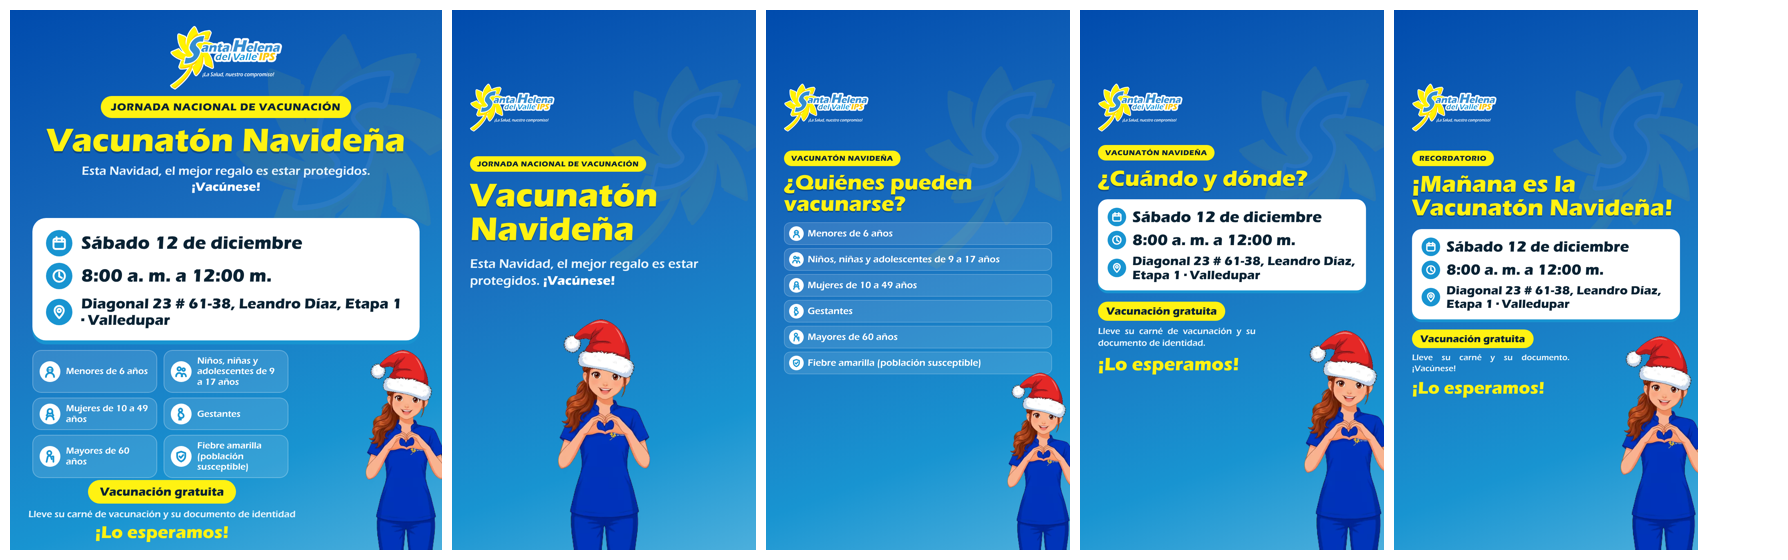
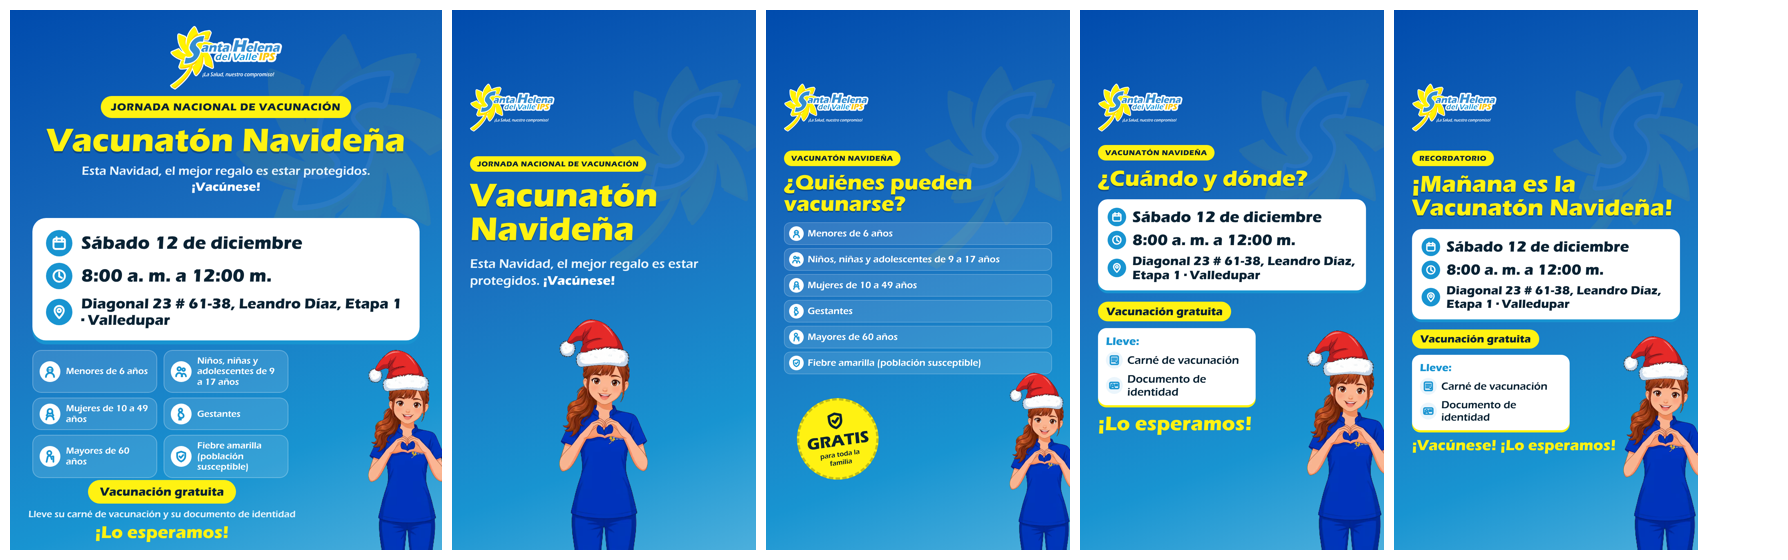
Vacunatón: gorro más arriba, sello GRATIS y tarjeta Lleve en las historias
Claude-Session: https://claude.ai/code/session_01KgBCaN2Nb7mn6jAyyriR7q

diff --git a/entregas/creativo-instagram/2026-11-26-vacunaton-navidena/fuente/piezas.html b/entregas/creativo-instagram/2026-11-26-vacunaton-navidena/fuente/piezas.html
@@ -34,6 +34,16 @@ h1{font-family:"Lobster";font-weight:400;color:var(--tit);line-height:1;text-sha
 .esperamos{font-family:"Lobster";color:var(--tit)}
 .B .esperamos{font-family:"Eras Bold ITC"}
 .hel{position:absolute}
+.llevar{background:#fff;color:#0A2233;border-radius:30px;padding:24px 28px;display:flex;flex-direction:column;gap:14px;box-shadow:0 8px 0 var(--ac2)}
+.B .llevar{box-shadow:0 8px 0 #FFF212}
+.llevar .lt{font-family:"Eras Bold ITC";color:var(--ac1)}
+.B .llevar .lt{color:#1894D1}
+.llevar .li{display:flex;align-items:center;gap:16px}
+.gi2{flex:none;width:60px;height:60px;border-radius:50%;background:#EAF5FC;display:flex;align-items:center;justify-content:center}
+.sello{position:absolute;width:330px;height:330px;border-radius:50%;background:var(--chip);color:var(--chipT);display:flex;flex-direction:column;align-items:center;justify-content:center;text-align:center;border:8px dashed rgba(255,255,255,.55);transform:rotate(-8deg)}
+.B .sello{border-color:rgba(10,34,51,.25)}
+.sello b{font-family:"Eras Bold ITC";font-weight:400;font-size:58px;line-height:1;margin-top:6px}
+.sello span{font-size:25px;width:220px;line-height:1.15;margin-top:6px}
 .marca{position:absolute;opacity:.07}
 </style></head><body>
 <section id="pz"></section>
@@ -62,6 +72,9 @@ const cuando=(fs)=>`<div class="cuando">
  <div class="fila"><span class="ic">${ico.cal}</span><span class="t" style="font-size:${fs}px">Sábado 12 de diciembre</span></div>
  <div class="fila"><span class="ic">${ico.reloj}</span><span class="t" style="font-size:${fs}px">8:00 a. m. a 12:00 m.</span></div>
  <div class="fila"><span class="ic">${ico.pin}</span><span class="t" style="font-size:${fs*0.8}px">Diagonal 23 # 61-38, Leandro Díaz, Etapa 1 · Valledupar</span></div></div>`;
+const llevar=(fs)=>`<div class="llevar" style="font-size:${fs}px"><p class="lt">Lleve:</p>
+ <div class="li"><span class="gi2"><svg width="40" height="40" viewBox="0 0 40 40" stroke="#1894D1" ${S}><rect x="6" y="5" width="28" height="30" rx="4"/><path d="M12 13h16M12 19h16M12 25h10"/><path d="M26 27l2 2 4-5"/></svg></span>Carné de vacunación</div>
+ <div class="li"><span class="gi2"><svg width="40" height="40" viewBox="0 0 40 40" stroke="#1894D1" ${S}><rect x="4" y="9" width="32" height="22" rx="4"/><circle cx="14" cy="19" r="4"/><path d="M8 27c1-3 3-4 6-4s5 1 6 4M23 16h8M23 21h8"/></svg></span>Documento de identidad</div></div>`;
 // ---------- decoración navideña (A) ----------
 function deco(){
  if(V!=='A') return `<img class="marca" src="img/icono-margarita-con-S-transparente.png" style="right:-40px;top:${P==='post'?60:200}px;width:560px">`;
@@ -102,24 +115,23 @@ if(P==='h2'){
  h+=`<div style="position:absolute;left:64px;right:64px;top:500px"><span class="enc">Vacunatón Navideña</span>
      <h1 style="font-size:${V==="A"?90:76}px;margin:20px 0 28px">¿Quiénes pueden vacunarse?</h1>
      ${gruposHTML(34,952,1)}</div>`;
+ h+=`<div class="sello" style="left:110px;bottom:250px;width:290px;height:290px"><svg width="70" height="70" viewBox="0 0 40 40" stroke="currentColor" ${S}><path d="M20 5l12 4v9c0 8-5 13-12 16C13 31 8 26 8 18V9z"/><path d="M15 19l4 4 7-8"/></svg><b>GRATIS</b><span>para toda la familia</span></div>`;
  h+=`<img class="hel" src="img/helenita-navidad.png" style="right:-30px;bottom:0;height:630px">`;
 }
 if(P==='h3'){
  h+=`<div style="position:absolute;left:64px;right:64px;top:480px"><span class="enc">Vacunatón Navideña</span>
      <h1 style="font-size:${V==='A'?96:80}px;margin:24px 0 34px">¿Cuándo y dónde?</h1>${cuando(56)}
-     <div style="margin-top:40px;display:flex;flex-direction:column;align-items:flex-start;gap:16px;width:560px">
-     <span class="gratis" style="font-size:38px">Vacunación gratuita</span>
-     <p class="lleve" style="font-size:32px;line-height:1.3;text-align:justify">Lleve su carné de vacunación y su documento de identidad.</p>
-     <p class="esperamos" style="font-size:66px">¡Lo esperamos!</p></div></div>`;
+     <div style="margin-top:40px;display:flex;flex-direction:column;align-items:flex-start;gap:24px;width:560px">
+     <span class="gratis" style="font-size:40px">Vacunación gratuita</span>${llevar(40)}
+     <p class="esperamos" style="font-size:72px">¡Lo esperamos!</p></div></div>`;
  h+=`<img class="hel" src="img/helenita-navidad.png" style="right:-30px;bottom:0;height:780px">`;
 }
 if(P==='rec'){
  h+=`<div style="position:absolute;left:64px;right:64px;top:500px"><span class="enc">Recordatorio</span>
      <h1 style="font-size:${V==='A'?104:84}px;margin:22px 0 34px">¡Mañana es la Vacunatón Navideña!</h1>${cuando(54)}
-     <div style="margin-top:36px;display:flex;flex-direction:column;align-items:flex-start;gap:14px;width:560px">
-     <span class="gratis" style="font-size:36px">Vacunación gratuita</span>
-     <p class="lleve" style="font-size:30px;line-height:1.3;text-align:justify">Lleve su carné y su documento. ¡Vacúnese!</p>
-     <p class="esperamos" style="font-size:62px">¡Lo esperamos!</p></div></div>`;
+     <div style="margin-top:36px;display:flex;flex-direction:column;align-items:flex-start;gap:22px;width:560px">
+     <span class="gratis" style="font-size:38px">Vacunación gratuita</span>${llevar(38)}
+     <p class="esperamos" style="font-size:54px;white-space:nowrap">¡Vacúnese! ¡Lo esperamos!</p></div></div>`;
  h+=`<img class="hel" src="img/helenita-navidad.png" style="right:-30px;bottom:0;height:760px">`;
 }
 pz.innerHTML=h;

diff --git a/entregas/creativo-instagram/2026-11-26-vacunaton-navidena/LEAME.md b/entregas/creativo-instagram/2026-11-26-vacunaton-navidena/LEAME.md
@@ -12,3 +12,7 @@ Encargo directo del Agente Copies Redes con texto aprobado por Nicolas
 - Helenita: archivo oficial del Agente Helenita (`marca/helenita/animaciones/navidad/corazon-cuadro.png`, corazón con
   gorro, 26 nov). Para una historia animada está `corazon.webm` en esa misma carpeta.
 - Historias: Helenita más grande y pegada al borde inferior (pedido de Nicolas); también en la pantalla 2.
+- Gorro subido para que se vean las cejas (pedido de Nicolas): `fuente/img/helenita-navidad.png` es un montaje fijo
+  (corazón + gorro de la web) con el gorro más arriba que en el archivo del Agente Helenita.
+- Pantalla 2: sello «GRATIS para toda la familia» abajo a la izquierda. Pantallas 3 y recordatorio: tarjeta
+  «Lleve: carné de vacunación · documento de identidad» con íconos.
